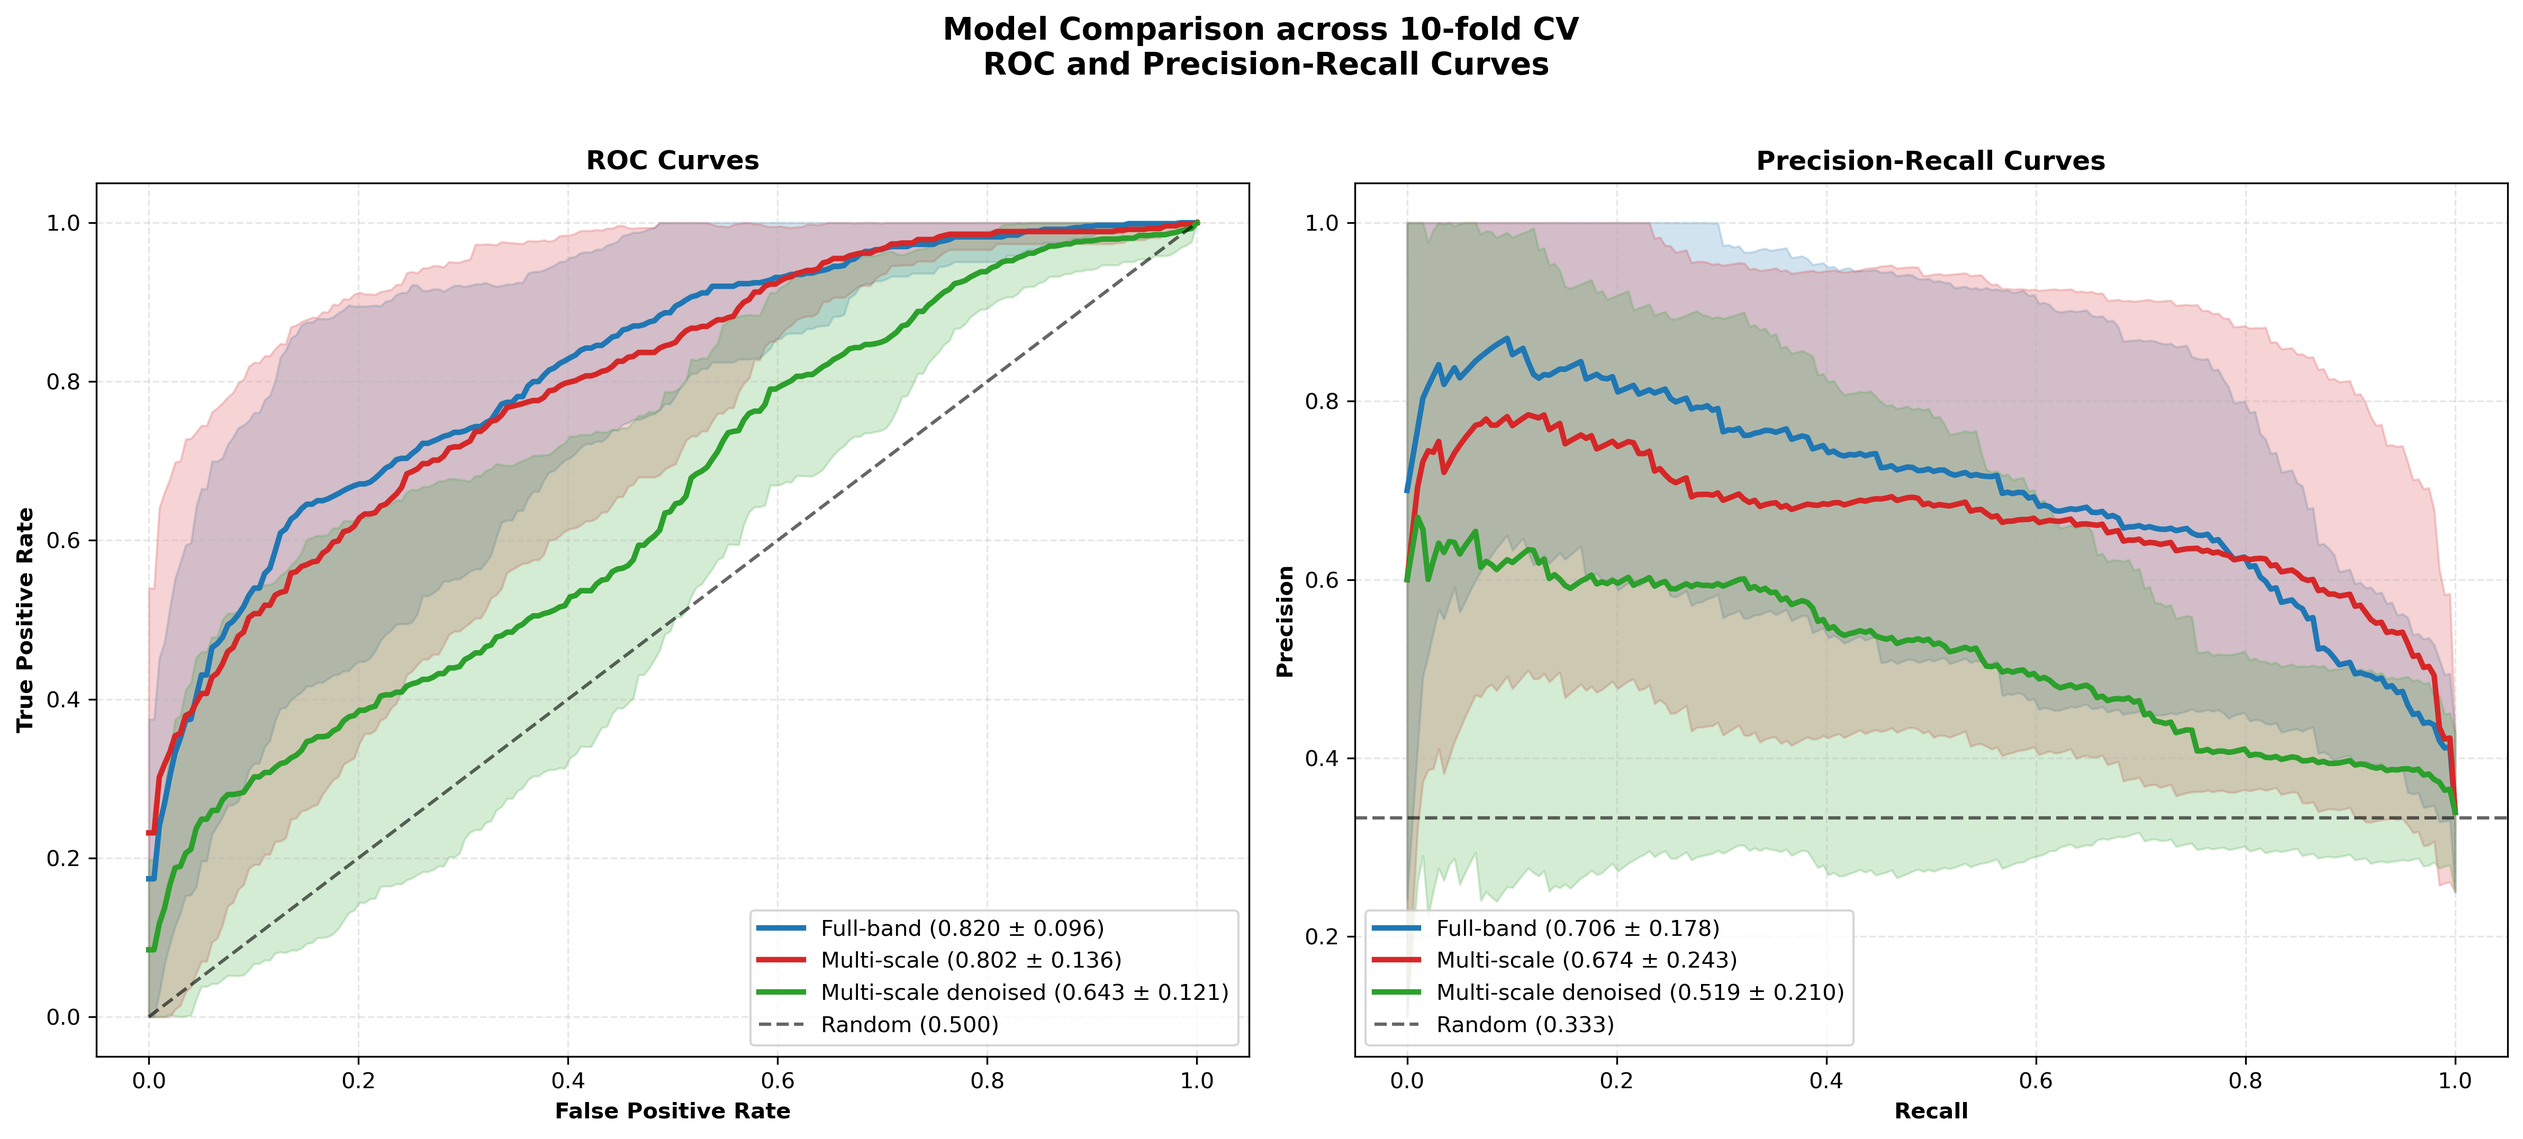
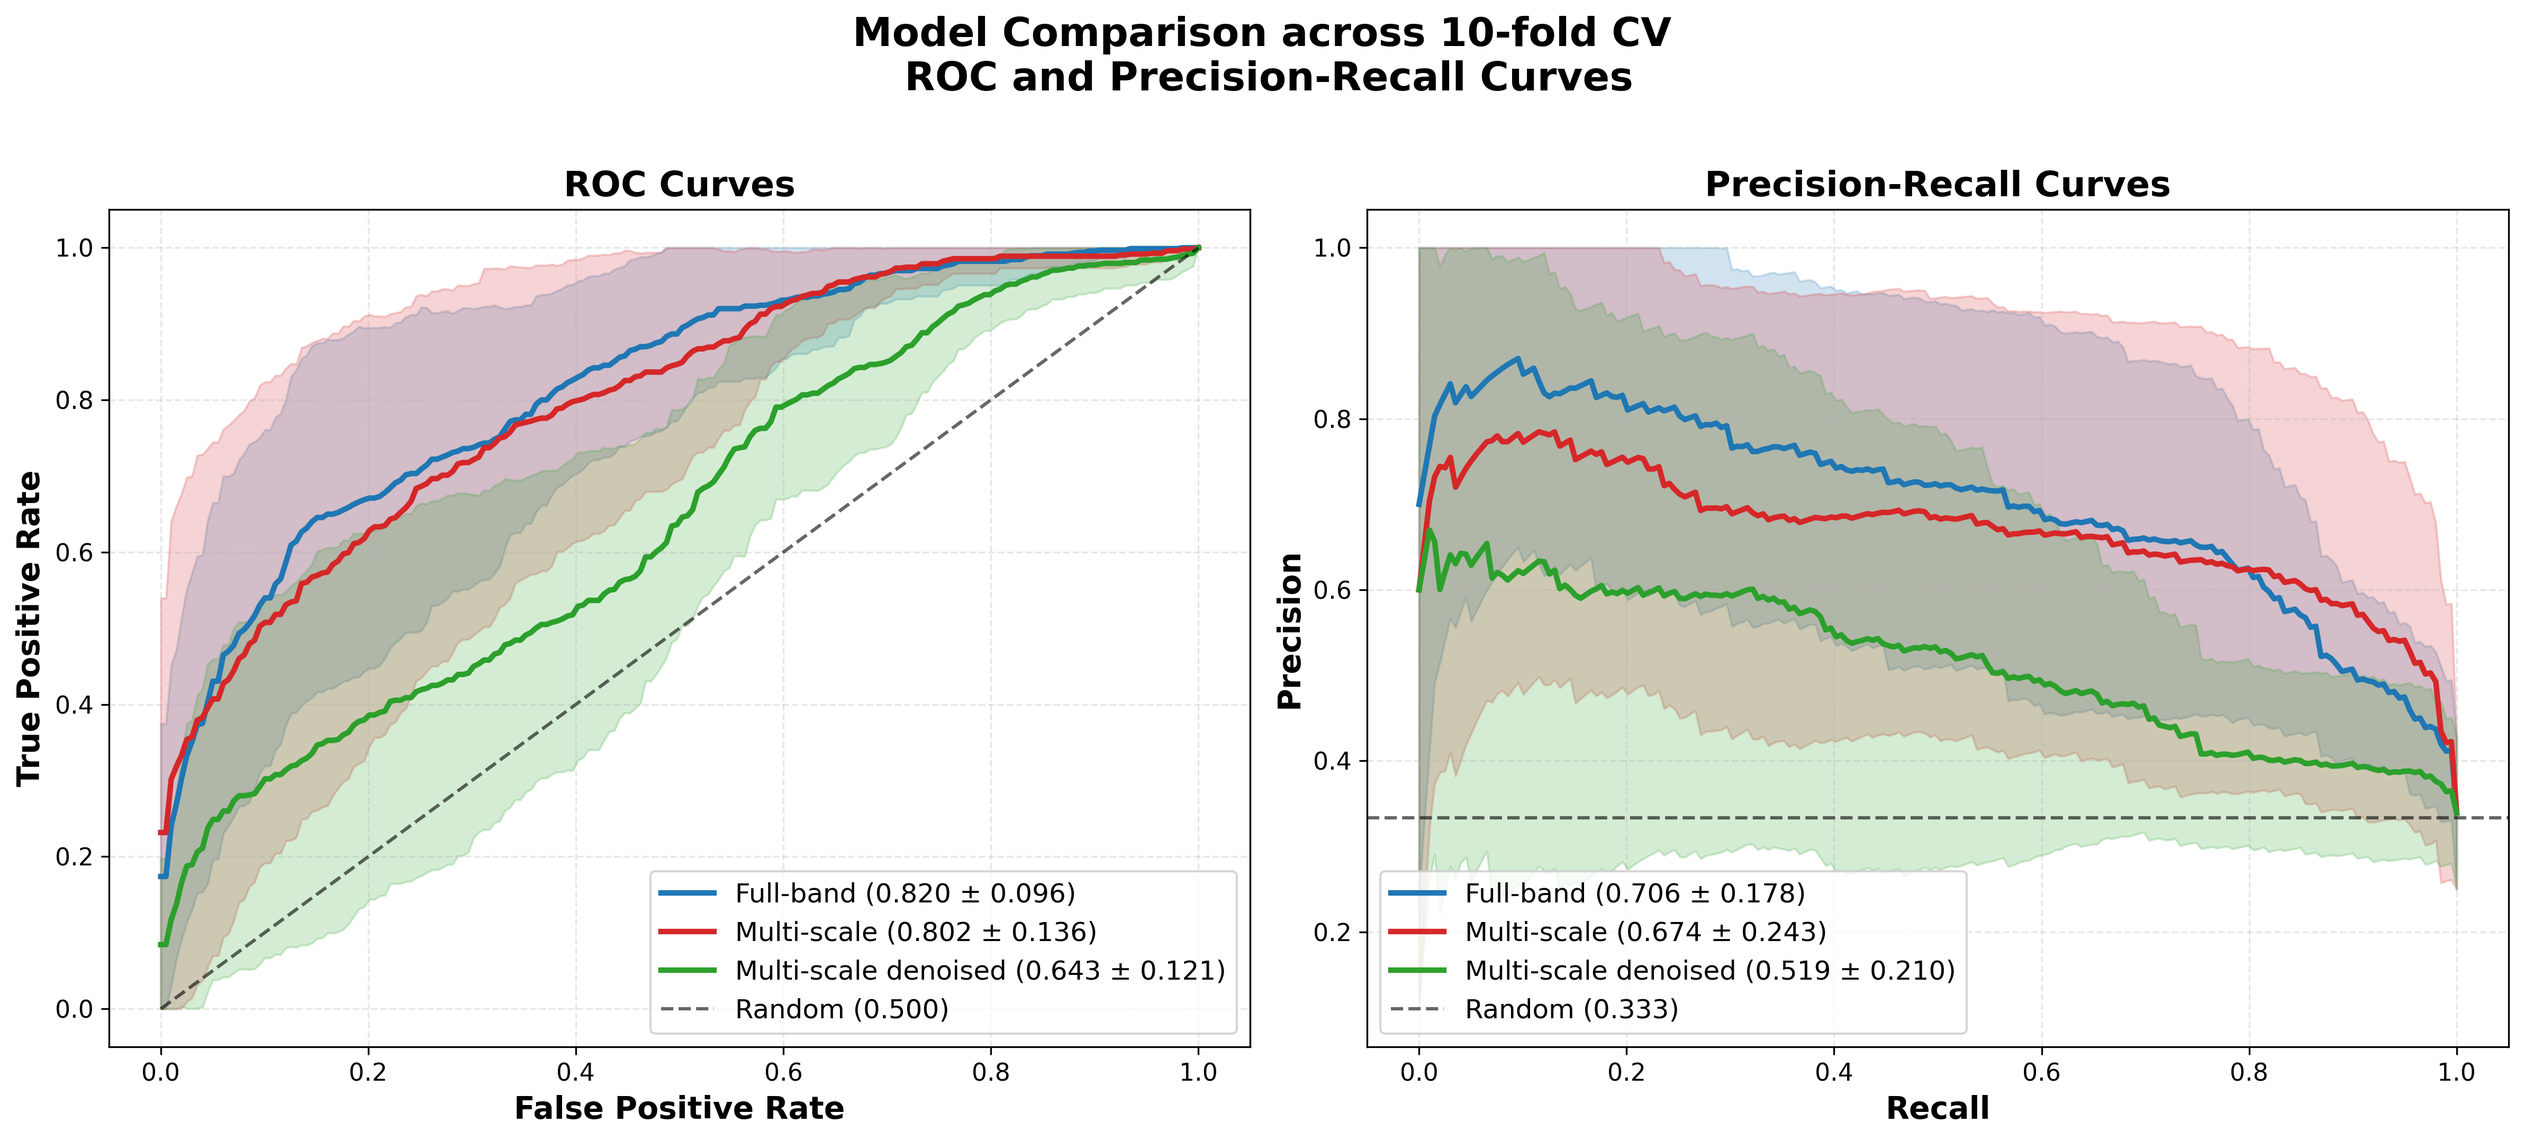
changes

diff --git a/src/CNN/utils/plotting.py b/src/CNN/utils/plotting.py
@@ -57,10 +57,11 @@ def plot_roc_curves(data_dict, colors=None, output_path=None, title='ROC Curves'
 
     ax.plot([0, 1], [0, 1], 'k--', lw=1.5, alpha=0.6, label='Random (AUC=0.500)')
 
-    ax.set_xlabel('False Positive Rate', fontweight='bold')
-    ax.set_ylabel('True Positive Rate', fontweight='bold')
-    ax.set_title(title, fontweight='bold')
-    ax.legend(loc='lower right')
+    ax.set_xlabel('False Positive Rate', fontweight='bold', fontsize=14)
+    ax.set_ylabel('True Positive Rate', fontweight='bold', fontsize=14)
+    ax.set_title(title, fontweight='bold', fontsize=16)
+    ax.legend(loc='lower right', fontsize=12)
+    ax.tick_params(axis='both', which='major', labelsize=11)
     ax.grid(alpha=0.3, linestyle='--')
     ax.set_xlim([0.0, 1.0])
     ax.set_ylim([0.0, 1.0])
@@ -68,7 +69,7 @@ def plot_roc_curves(data_dict, colors=None, output_path=None, title='ROC Curves'
     plt.tight_layout()
 
     if output_path:
-        plt.savefig(output_path, dpi=300, bbox_inches='tight')
+        plt.savefig(output_path, dpi=300, bbox_inches='tight', format='pdf')
 
     return fig, ax
 
@@ -90,7 +91,6 @@ def plot_pr_curves(data_dict, colors=None, output_path=None, title='Precision-Re
 
     fig, ax = plt.subplots(figsize=(10, 8))
 
-    # calculate positive class ratio for random baseline
     all_labels = []
     for fold_results in data_dict.values():
         for fold in fold_results:
@@ -101,7 +101,6 @@ def plot_pr_curves(data_dict, colors=None, output_path=None, title='Precision-Re
         precisions_interp = []
         auprcs = []
 
-        # collect pr curves from all folds
         for fold in fold_results:
             precision, recall, _ = precision_recall_curve(fold['labels'], fold['probs'])
             precision_rev = precision[::-1]
@@ -112,27 +111,24 @@ def plot_pr_curves(data_dict, colors=None, output_path=None, title='Precision-Re
             auprc = average_precision_score(fold['labels'], fold['probs'])
             auprcs.append(auprc)
 
-        # compute mean and std
         mean_precision = np.mean(precisions_interp, axis=0)
         std_precision = np.std(precisions_interp, axis=0)
         mean_auprc = np.mean(auprcs)
         std_auprc = np.std(auprcs)
 
-        # plot mean curve
         color = colors.get(model_name, '#000000')
         ax.plot(mean_recall, mean_precision, color=color, lw=2.5, label=f'{model_name} (AUPRC = {mean_auprc:.3f} +- {std_auprc:.3f})')
 
-        # plot std
         prec_upper = np.minimum(mean_precision + std_precision, 1)
         prec_lower = np.maximum(mean_precision - std_precision, 0)
         ax.fill_between(mean_recall, prec_lower, prec_upper, color=color, alpha=0.2)
 
-    # random classifier baseline
     ax.axhline(pos_ratio, color='k', linestyle='--', lw=1.5, alpha=0.6, label=f'Random ({pos_ratio:.3f})')
-    ax.set_xlabel('Recall', fontweight='bold')
-    ax.set_ylabel('Precision', fontweight='bold')
-    ax.set_title(title, fontweight='bold')
-    ax.legend(loc='lower left')
+    ax.set_xlabel('Recall', fontweight='bold', fontsize=14)
+    ax.set_ylabel('Precision', fontweight='bold', fontsize=14)
+    ax.set_title(title, fontweight='bold', fontsize=16)
+    ax.legend(loc='lower left', fontsize=12)
+    ax.tick_params(axis='both', which='major', labelsize=11)
     ax.grid(alpha=0.3, linestyle='--')
     ax.set_xlim([0.0, 1.0])
     ax.set_ylim([0.0, 1.0])
@@ -140,7 +136,7 @@ def plot_pr_curves(data_dict, colors=None, output_path=None, title='Precision-Re
     plt.tight_layout()
 
     if output_path:
-        plt.savefig(output_path, dpi=300, bbox_inches='tight')
+        plt.savefig(output_path, dpi=300, bbox_inches='tight', format='pdf')
 
     return fig, ax
 
@@ -191,15 +187,16 @@ def plot_metric_box_plots(data_dict, metrics=None, colors=None, output_path=None
             x_jitter = np.random.normal(i + 1, 0.04, len(values))
             ax.scatter(x_jitter, values, color=color, s=50, alpha=0.9, zorder=3)
 
-        ax.set_ylabel(metric.upper(), fontsize=12, fontweight='bold')
-        ax.set_title(f'{metric.upper()} Comparison', fontsize=13, fontweight='bold')
+        ax.set_ylabel(metric.upper(), fontsize=14, fontweight='bold')
+        ax.set_title(f'{metric.upper()} Comparison', fontsize=16, fontweight='bold')
+        ax.tick_params(axis='both', which='major', labelsize=11)
         ax.grid(alpha=0.3, linestyle='--', axis='y')
 
-    plt.suptitle(title, fontsize=14, fontweight='bold', y=1.02)
+    plt.suptitle(title, fontsize=18, fontweight='bold', y=1.02)
     plt.tight_layout()
 
     if output_path:
-        plt.savefig(output_path, dpi=300, bbox_inches='tight')
+        plt.savefig(output_path, dpi=300, bbox_inches='tight', format='pdf')
 
     return fig, axes
 
@@ -242,10 +239,11 @@ def plot_roc_and_pr_combined(data_dict, colors=None, output_path=None, title='RO
 
     # random classifier baseline
     ax1.plot([0, 1], [0, 1], 'k--', lw=1.5, alpha=0.6, label='Random (0.500)')
-    ax1.set_xlabel('False Positive Rate', fontweight='bold')
-    ax1.set_ylabel('True Positive Rate', fontweight='bold')
-    ax1.set_title('ROC Curves', fontweight='bold')
-    ax1.legend(loc='lower right')
+    ax1.set_xlabel('False Positive Rate', fontweight='bold', fontsize=14)
+    ax1.set_ylabel('True Positive Rate', fontweight='bold', fontsize=14)
+    ax1.set_title('ROC Curves', fontweight='bold', fontsize=16)
+    ax1.legend(loc='lower right', fontsize=12)
+    ax1.tick_params(axis='both', which='major', labelsize=11)
     ax1.grid(alpha=0.3, linestyle='--')
 
     # pr curves (right panel)
@@ -277,16 +275,17 @@ def plot_roc_and_pr_combined(data_dict, colors=None, output_path=None, title='RO
 
     # random classifier baseline
     ax2.axhline(pos_ratio, color='k', linestyle='--', lw=1.5, alpha=0.6, label=f'Random ({pos_ratio:.3f})')
-    ax2.set_xlabel('Recall', fontweight='bold')
-    ax2.set_ylabel('Precision', fontweight='bold')
-    ax2.set_title('Precision-Recall Curves', fontweight='bold')
-    ax2.legend(loc='lower left')
+    ax2.set_xlabel('Recall', fontweight='bold', fontsize=14)
+    ax2.set_ylabel('Precision', fontweight='bold', fontsize=14)
+    ax2.set_title('Precision-Recall Curves', fontweight='bold', fontsize=16)
+    ax2.legend(loc='lower left', fontsize=12)
+    ax2.tick_params(axis='both', which='major', labelsize=11)
     ax2.grid(alpha=0.3, linestyle='--')
 
-    plt.suptitle(title, fontsize=14, fontweight='bold', y=1.02)
+    plt.suptitle(title, fontsize=18, fontweight='bold', y=1.02)
     plt.tight_layout()
 
     if output_path:
-        plt.savefig(output_path, dpi=300, bbox_inches='tight')
+        plt.savefig(output_path, dpi=300, bbox_inches='tight', format='pdf')
 
     return fig, (ax1, ax2)

diff --git a/src/decomposition_strategy_validation/plotting.py b/src/decomposition_strategy_validation/plotting.py
@@ -60,25 +60,26 @@ def plot_boxplot_comparisons(agg_df, metrics, output_dir):
         ax.set_xticks(range(1, len(pipelines) + 1))
         ax.set_xticklabels(pipelines, fontsize=11)
 
-        ax.set_xlabel('Pipeline', fontsize=12, fontweight='bold')
+        ax.set_xlabel('Pipeline', fontsize=14, fontweight='bold')
         ax.set_ylabel(
             METRIC_LABELS.get(metric, metric),
-            fontsize=12,
+            fontsize=14,
             fontweight='bold'
         )
 
         ax.set_title(
             METRIC_LABELS.get(metric, metric),
-            fontsize=13,
+            fontsize=16,
             fontweight='bold'
         )
 
+        ax.tick_params(axis='both', which='major', labelsize=11)
         ax.grid(alpha=0.3, linestyle='--')
 
     plt.tight_layout()
 
-    plot_path = os.path.join(output_dir, 'pipeline_comparison_boxplots.png')
-    plt.savefig(plot_path, dpi=300, bbox_inches='tight')
+    plot_path = os.path.join(output_dir, 'pipeline_comparison_boxplots.pdf')
+    plt.savefig(plot_path, dpi=300, bbox_inches='tight', format='pdf')
 
     plt.close()
 
@@ -134,14 +135,14 @@ def plot_violinplot_comparisons(agg_df, metrics, output_dir):
             ax.scatter(i, median, color='white', s=25, zorder=3, edgecolors='#2C3E50', linewidths=1.5)
 
         ax.set_xticks(range(1, len(pipelines) + 1))
-        ax.set_xticklabels(pipelines, fontsize=10.5, color='#333333')
+        ax.set_xticklabels(pipelines, fontsize=11, color='#333333')
 
-        ax.set_xlabel('Pipeline', fontsize=11, fontweight='bold', labelpad=10, color='#222222')
-        ax.tick_params(axis='both', which='major', labelsize=10, labelcolor='#333333')
+        ax.set_xlabel('Pipeline', fontsize=14, fontweight='bold', labelpad=10, color='#222222')
+        ax.tick_params(axis='both', which='major', labelsize=11, labelcolor='#333333')
 
         ax.set_title(
             METRIC_LABELS.get(metric, metric),
-            fontsize=12,
+            fontsize=16,
             fontweight='bold',
             pad=14,
             color='#111111'
@@ -152,6 +153,6 @@ def plot_violinplot_comparisons(agg_df, metrics, output_dir):
 
     plt.tight_layout()
 
-    plot_path = os.path.join(output_dir, 'pipeline_comparison_violinplots.png')
-    plt.savefig(plot_path, dpi=300, bbox_inches='tight')
+    plot_path = os.path.join(output_dir, 'pipeline_comparison_violinplots.pdf')
+    plt.savefig(plot_path, dpi=300, bbox_inches='tight', format='pdf')
     plt.close()

diff --git a/src/CNN/ablation/ablation_study.py b/src/CNN/ablation/ablation_study.py
@@ -45,11 +45,15 @@ def main():
 
     results = {}
 
-    print("evaluating models...")
+    print("evaluating high-frequency model...")
     results['High-frequency'] = evaluate_model_folds(model_class=MultiScaleCNN,model_params={'n_subbands': len(SUBBANDS_HIGH_FREQ),'dropout': 0.5}, checkpoint_dir=RESULTS_HIGH_FREQ, dataset=dataset_high, device=DEVICE, batch_size=BATCH_SIZE)
+    print("\nevaluating low-frequency model...")
     results['Low-frequency'] = evaluate_model_folds(model_class=MultiScaleCNN, model_params={'n_subbands': len(SUBBANDS_LOW_FREQ), 'dropout': 0.5}, checkpoint_dir=RESULTS_LOW_FREQ, dataset=dataset_low, device=DEVICE,batch_size=BATCH_SIZE)
+    print("\nevaluating mid-frequency model...")
     results['Mid-frequency'] = evaluate_model_folds(model_class=MultiScaleCNN, model_params={'n_subbands': len(SUBBANDS_MID_FREQ), 'dropout': 0.5}, checkpoint_dir=RESULTS_MID_FREQ, dataset=dataset_mid, device=DEVICE, batch_size=BATCH_SIZE)
+    print("\nevaluating full multi-frequency model...")
     results['Multi-scale'] = evaluate_model_folds(model_class=MultiScaleCNN, model_params={'n_subbands': len(SUBBANDS_FULL), 'dropout': 0.5}, checkpoint_dir=RESULTS_FULL, dataset=dataset_full, device=DEVICE, batch_size=BATCH_SIZE)
+
     print("models evaluated")
 
     stats = compare_models(
@@ -60,7 +64,7 @@ def main():
 
     plot_roc_and_pr_combined(
         results,
-        output_path=OUTPUT_DIR / 'roc_pr_comparison.png',
+        output_path=OUTPUT_DIR / 'roc_pr_comparison_ablation.pdf',
         title='Ablation Study Comparison across 10-fold CV\n ROC and Precision-Recall Curves'
     )
 

diff --git a/src/wavelet_selection_tests/leakage_analysis/leakage_plotter.py b/src/wavelet_selection_tests/leakage_analysis/leakage_plotter.py
@@ -84,9 +84,10 @@ class LeakagePlotter:
             fontsize=11
         )
 
-        ax.set_xlabel('Wavelet Function', fontsize=12, fontweight='bold')
-        ax.set_ylabel('Energy Ratio (ER)', fontsize=12, fontweight='bold')
-        ax.set_title('Energy Leakage Analysis', fontsize=13, fontweight='bold', pad=20)
+        ax.set_xlabel('Wavelet Function', fontsize=14, fontweight='bold')
+        ax.set_ylabel('Energy Ratio (ER)', fontsize=14, fontweight='bold')
+        ax.set_title('Energy Leakage Analysis', fontsize=16, fontweight='bold', pad=20)
+        ax.tick_params(axis='both', which='major', labelsize=11)
         ax.grid(alpha=0.3, linestyle='--')
 
         # Legend
@@ -95,9 +96,9 @@ class LeakagePlotter:
             Patch(facecolor=colors['Non-harmonic'], alpha=0.35,edgecolor='black', label='Non-harmonic')
         ]
 
-        ax.legend(handles=legend_elements, loc='lower right', fontsize=11)
+        ax.legend(handles=legend_elements, loc='lower right', fontsize=12)
 
         plt.tight_layout()
-        plot_path = self.output_dir / 'der_boxplot.png'
-        plt.savefig(plot_path, dpi=300, bbox_inches='tight')
+        plot_path = self.output_dir / 'der_boxplot.pdf'
+        plt.savefig(plot_path, dpi=300, bbox_inches='tight', format='pdf')
         plt.close()

diff --git a/src/decomposition_strategy_validation/run.py b/src/decomposition_strategy_validation/run.py
@@ -1,9 +1,15 @@
+import os
+import sys
+import numpy as np
+sys.path.insert(0, os.path.dirname(os.path.dirname(os.path.dirname(os.path.abspath(__file__)))))
+
 from src.decomposition_strategy_validation import (
     ExperimentConfig,
     run_experiment,
 )
 
 
+np.random.seed(42)
 def main():
     """
     main function for running the decomposition strategy validation experiment
@@ -11,8 +17,8 @@ def main():
 
     # select the frequency placement condition by uncommenting the appriopiate line below:
 
-    # method = "HARMONIC"
-    method = "NON_HARMONIC"
+    method = "HARMONIC"
+    # method = "NON_HARMONIC"
 
     subband_freq = {}
 
@@ -46,7 +52,6 @@ def main():
     band_names = ['D1', 'D2', 'D3', 'D4', 'A4']
     pipeline_names = ['swt_recon', 'swt_direct', 'dwt_recon']
 
-    print("running experiment...")
     agg_df, stats_df = run_experiment(config=config,band_names=band_names,pipeline_names=pipeline_names,n_trials=100)
     print("experiment finished")
 

diff --git a/src/CNN/training/cross_validation.py b/src/CNN/training/cross_validation.py
@@ -189,11 +189,11 @@ class CrossValidator:
         Returns:
             dictionary with aggregated results across folds
         """
-        print(f"Model: {self.model_type}")
+        print(f"model: {self.model_type}")
         if self.model_type == 'multi':
             subbands = self.subband_keys if self.subband_keys else ['D2', 'D3', 'D4', 'D5', 'D6', 'D7', 'D8']
-            print(f"Subbands: {subbands}")
-            print(f"Denoise: {self.denoise}")
+            print(f"subbands: {subbands}")
+            print(f"denoise: {self.denoise}")
 
         dataset_mode = self._get_dataset_mode()
         dataset = FullDataset(

diff --git a/src/decomposition_strategy_validation/experiment.py b/src/decomposition_strategy_validation/experiment.py
@@ -103,6 +103,6 @@ def run_experiment(config, band_names, pipeline_names, n_trials=100, metrics=Non
     save_statistical_results(stats_df, stats_path)
 
     plot_boxplot_comparisons(agg_df, metrics, config.output_dir)
-    # plot_violinplot_comparisons(agg_df, metrics, config.output_dir)
+    plot_violinplot_comparisons(agg_df, metrics, config.output_dir)
 
     return agg_df, stats_df

diff --git a/src/CNN/tests/model_evaluator.py b/src/CNN/tests/model_evaluator.py
@@ -65,7 +65,7 @@ def main():
     )
     plot_roc_and_pr_combined(
         results,
-        output_path=OUTPUT_DIR / 'roc_pr_comparison.png',
+        output_path=OUTPUT_DIR / 'roc_pr_comparison.pdf',
         title='Model Comparison across 10-fold CV\n ROC and Precision-Recall Curves'
     )
 

diff --git a/src/wavelet_selection_tests/leakage_analysis/main.py b/src/wavelet_selection_tests/leakage_analysis/main.py
@@ -32,7 +32,7 @@ def main():
         n_trials=100
     )
 
-
+    print("done")
     #plots
     plotter = LeakagePlotter(output_dir)
     plotter.plot_der_comparison(df)

diff --git a/README.md b/README.md
@@ -86,11 +86,11 @@ Validation of decomposition strategies using synthetic signals.
 **Runnable scripts:**
 - `run.py` - Run the experiment and save results with plots
 
-## Dataset
+## Dataset and model weights
 
-**IMPORTANT:** The processed dataset and trained model weights is not included in this repository due to size constraints (it is more than 30 GB of data).
+**IMPORTANT:** The processed dataset and trained model weights are not included in this repository due to size constraints (it is more than 30 GB of data).
 
-**Download the dataset:**
+**Download the data:**
 1. Download the URP data and model weights from Google Drive: **https://drive.google.com/drive/folders/1NplSsH6urf2LSVbM0s3QcqdQjDLAxCP7?usp=sharing**
 2. Place the downloaded `data` folder into the `data_container/` directory
 3. Run the scripts as needed to evaluate results or train the models (note that training the models from scratch will require significant computational resources and time, so it is recommended to use the provided trained weights for evaluation)
@@ -144,15 +144,17 @@ python ablation_study.py
 
 ## Disclosure: Use of Generative AI
 
-Generative AI (Claude by Anthropic, model Opus 4.6) was used to assist with the following aspects of this project:
+Generative AI (Claude Code by Anthropic, model Opus 4.6) was used to assist with the following aspects of this project:
 
 **Code Documentation:**
 - Generation of documentation for functions and classes
 - Clarity improvements in code comments
+- Help with formatting this README file
 
 **Code Refactoring:**
 - Help with removing code redundancy and optimization
 - Suggestions for code organization and structure improvements
+
 
 ## License
 MIT License
